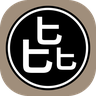
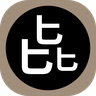
網頁版 2.5：標誌改為黑圓直接置於絹地色上，移除白色細圓框

Changed region(s): [[0.0625, 0.0625, 0.9375, 0.9375]]

diff --git a/index.html b/index.html
@@ -82,7 +82,7 @@ footer{ font-size:12px; color:var(--onground); text-align:center; margin-top:26p
 
 <header>
   <div class="brand"><img id="brandMark" alt=""><h1>比例字級閱讀</h1></div>
-  <div class="sub">網頁版 2.4（2026-09-21）｜發明專利 I847748</div>
+  <div class="sub">網頁版 2.5（2026-09-21）｜發明專利 I847748</div>
 </header>
 
 <div class="panel">
@@ -192,7 +192,7 @@ var FONTS = {
   hei:  '"Microsoft JhengHei","PingFang TC","Noto Sans CJK TC",sans-serif'
 };
 var DEMO_SENT = "自其不變者而觀之";
[2 lines of base64/hex data omitted]
 var ENDMARK = '　<img class="endmark" src="' + MARK_SRC + '">';
 var SAMPLE1 = "壬戌之秋，七月既望，蘇子與客泛舟遊於赤壁之下。清風徐來，水波不興，舉酒屬客，誦明月之詩，歌窈窕之章。少焉，月出於東山之上，徘徊於斗牛之間，白露橫江，水光接天；縱一葦之所如，凌萬頃之茫然。浩浩乎如馮虛御風，而不知其所止；飄飄乎如遺世獨立，羽化而登仙。\n於是飲酒樂甚，扣舷而歌之。歌曰：「桂棹兮蘭槳，擊空明兮泝流光。渺渺兮予懷，望美人兮天一方。」客有吹洞簫者，倚歌而和之，其聲嗚嗚然，如怨如慕，如泣如訴，餘音嫋嫋，不絕如縷。舞幽壑之潛蛟，泣孤舟之嫠婦。\n蘇子愀然，正襟危坐，而問客曰：「何為其然也？」\n客曰：「『月明星稀，烏鵲南飛』，此非曹孟德之詩乎？西望夏口，東望武昌，山川相繆，鬱乎蒼蒼，此非孟德之困於周郎者乎？方其破荊州，下江陵，順流而東也，舳艫千里，旌旗蔽空，釃酒臨江，橫槊賦詩，固一世之雄也，而今安在哉？況吾與子，漁樵於江渚之上，侶魚蝦而友麋鹿；駕一葉之扁舟，擧匏樽以相屬。寄蜉蝣於天地，渺滄海之一粟，哀吾生之須臾，羨長江之無窮。挾飛仙以遨遊，抱眀月而長終。知不可乎驟得，託遺響於悲風。\n蘇子曰：「客亦知夫水與月乎？逝者如斯，而未嘗往也；盈虛者如彼，而卒莫消長也，蓋將自其變者而觀之，則天地曾不能以一瞬；自其不變者而觀之，則物與我皆無盡也，而又何羨乎？且夫天地之間，物各有主，苟非吾之所有，雖一毫而莫取。惟江上之清風，與山間之明月，耳得之而為聲，目遇之而成色，取之無禁，用之不竭，是造物者之無盡藏也，而吾與子之所共適。」\n客喜而笑，洗盞更酌。肴核既盡，杯盤狼籍，相與枕藉乎舟中，不知東方之既白。";
 var SAMPLE2 = "臺灣即將進入秋季，早晚溫差逐漸變大。醫師提醒，銀髮族外出運動時應注意保暖，並補充足夠水分。營養師也建議，平日飲食可多攝取蔬菜、水果與優質蛋白質，維持均衡營養，讓身體保持最佳狀態。\n這段文字正是以比例字級排版。比例字級依筆畫多寡調整每個字的字面：筆畫少的字縮小，筆畫多的字放大，字距與行距維持不變。筆畫密的字不再擠成一團，筆畫疏的字也不顯得空洞，整段讀起來更清楚，眼睛也比較不容易疲勞。";
